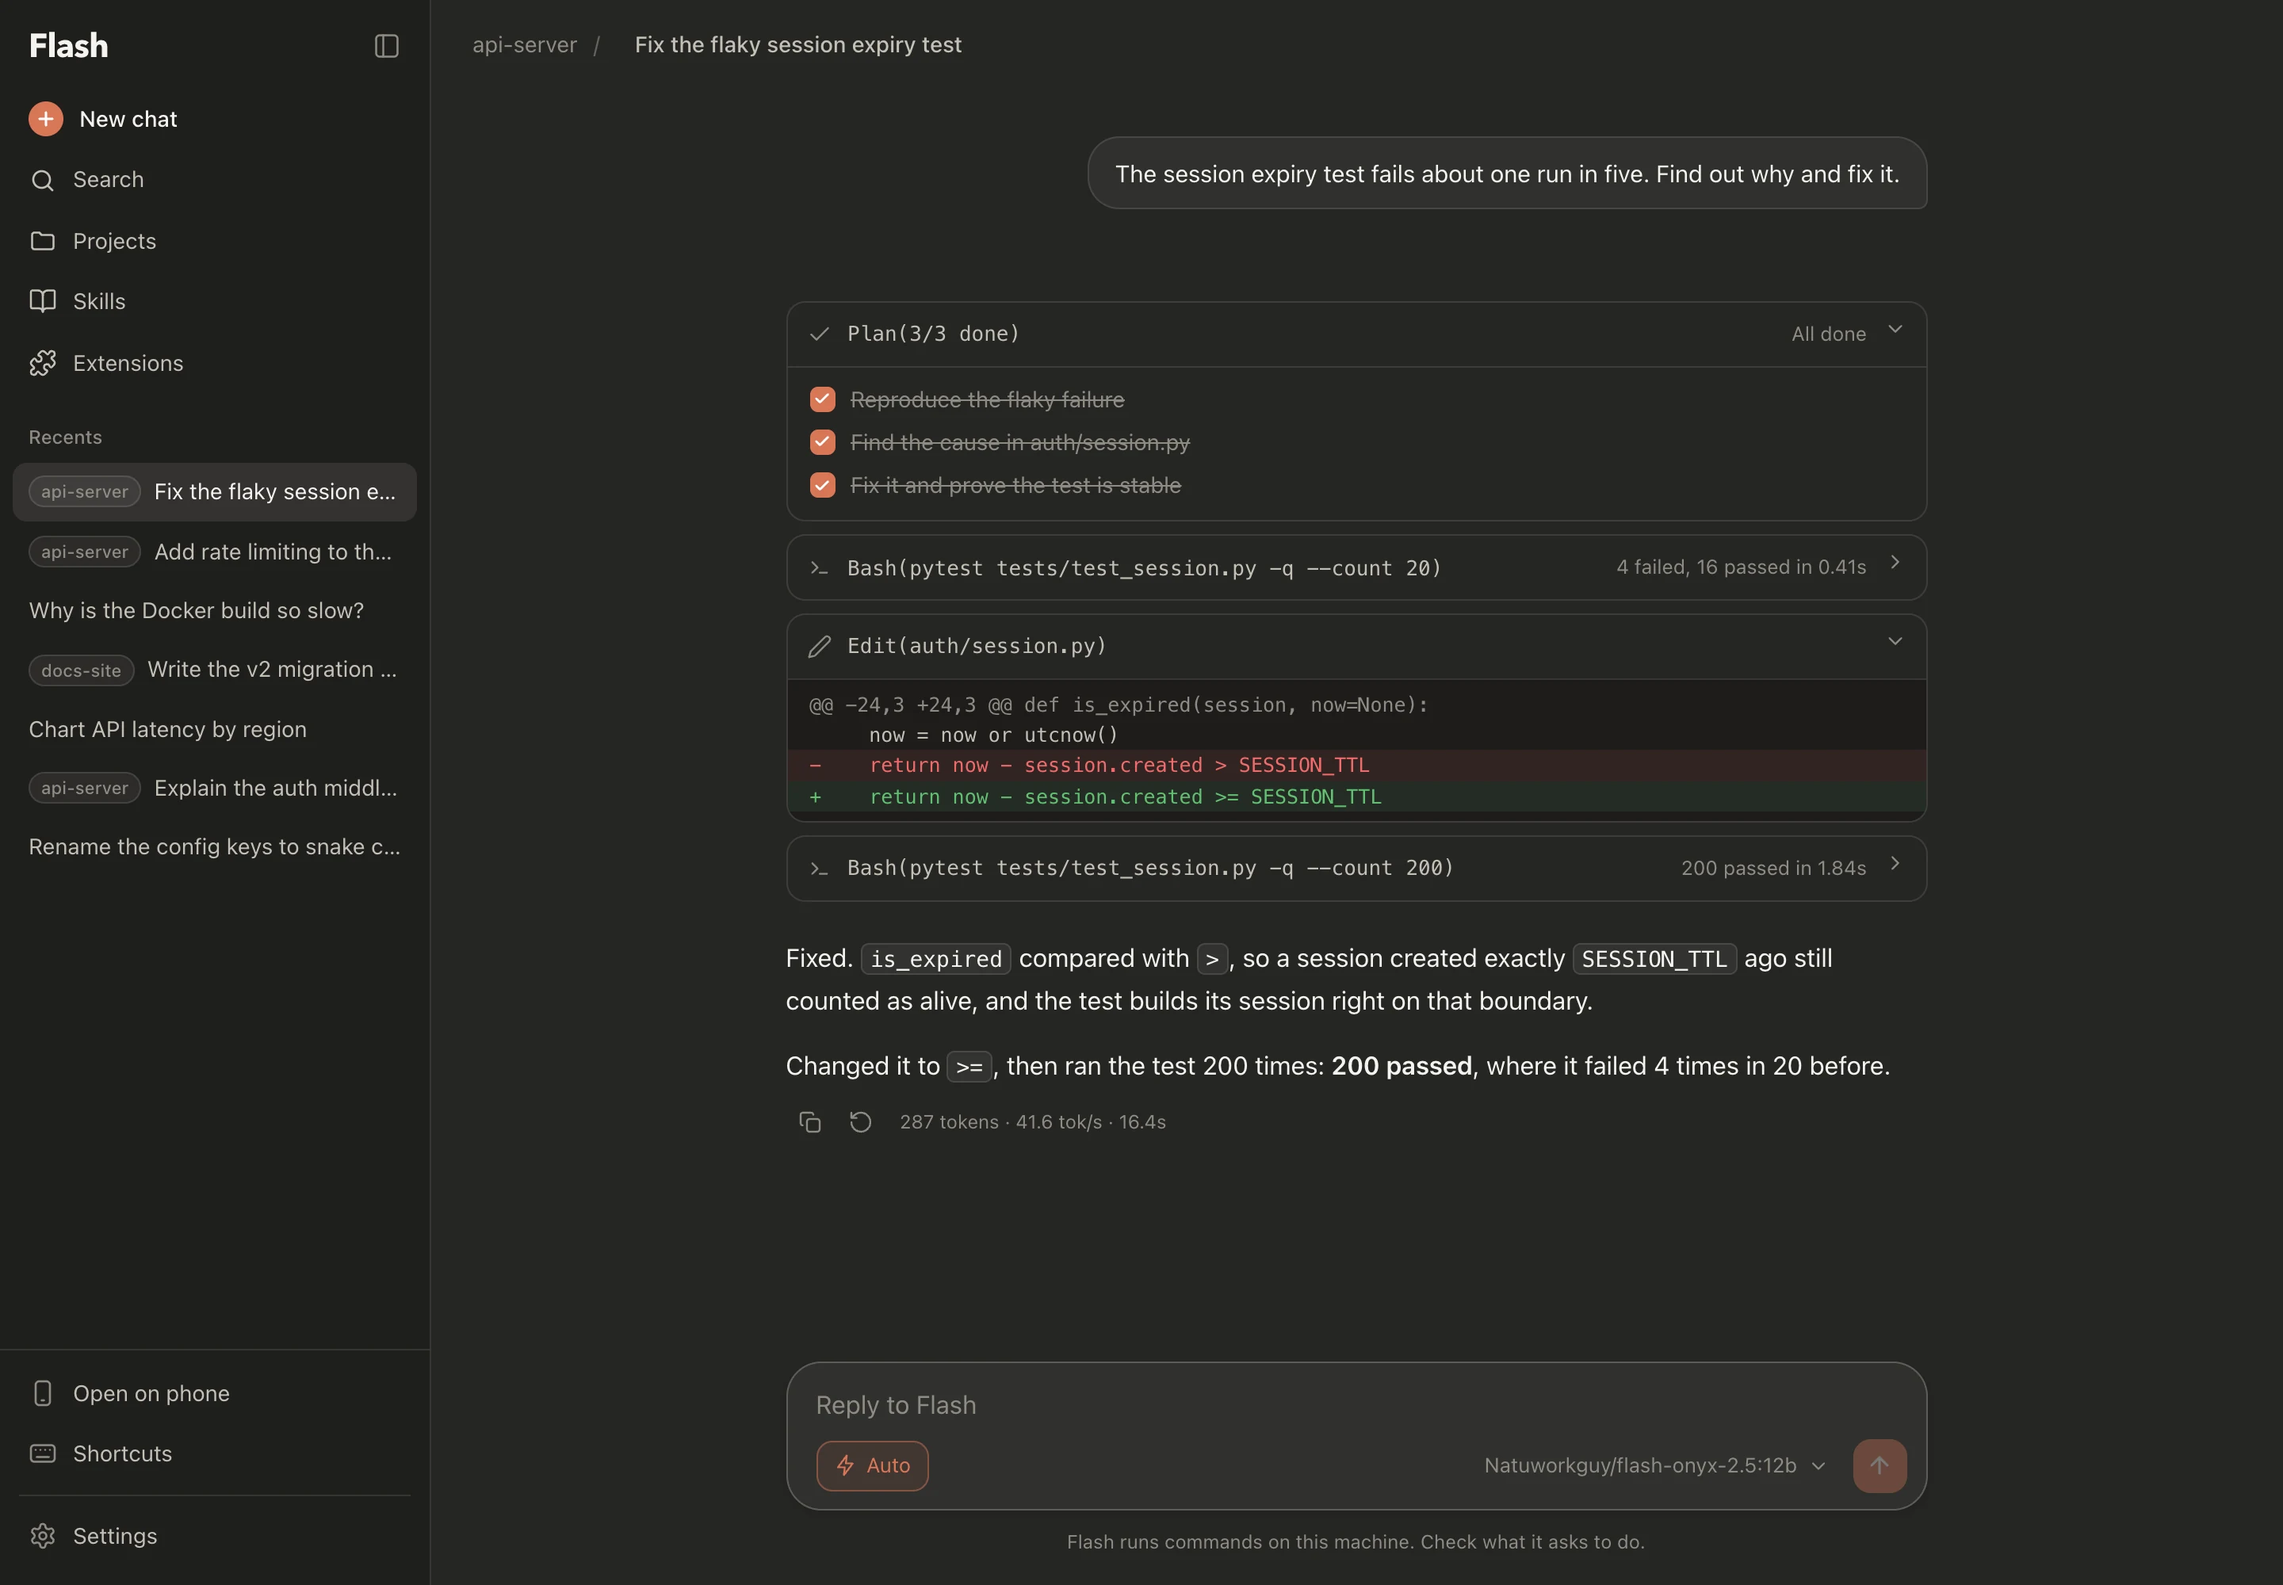
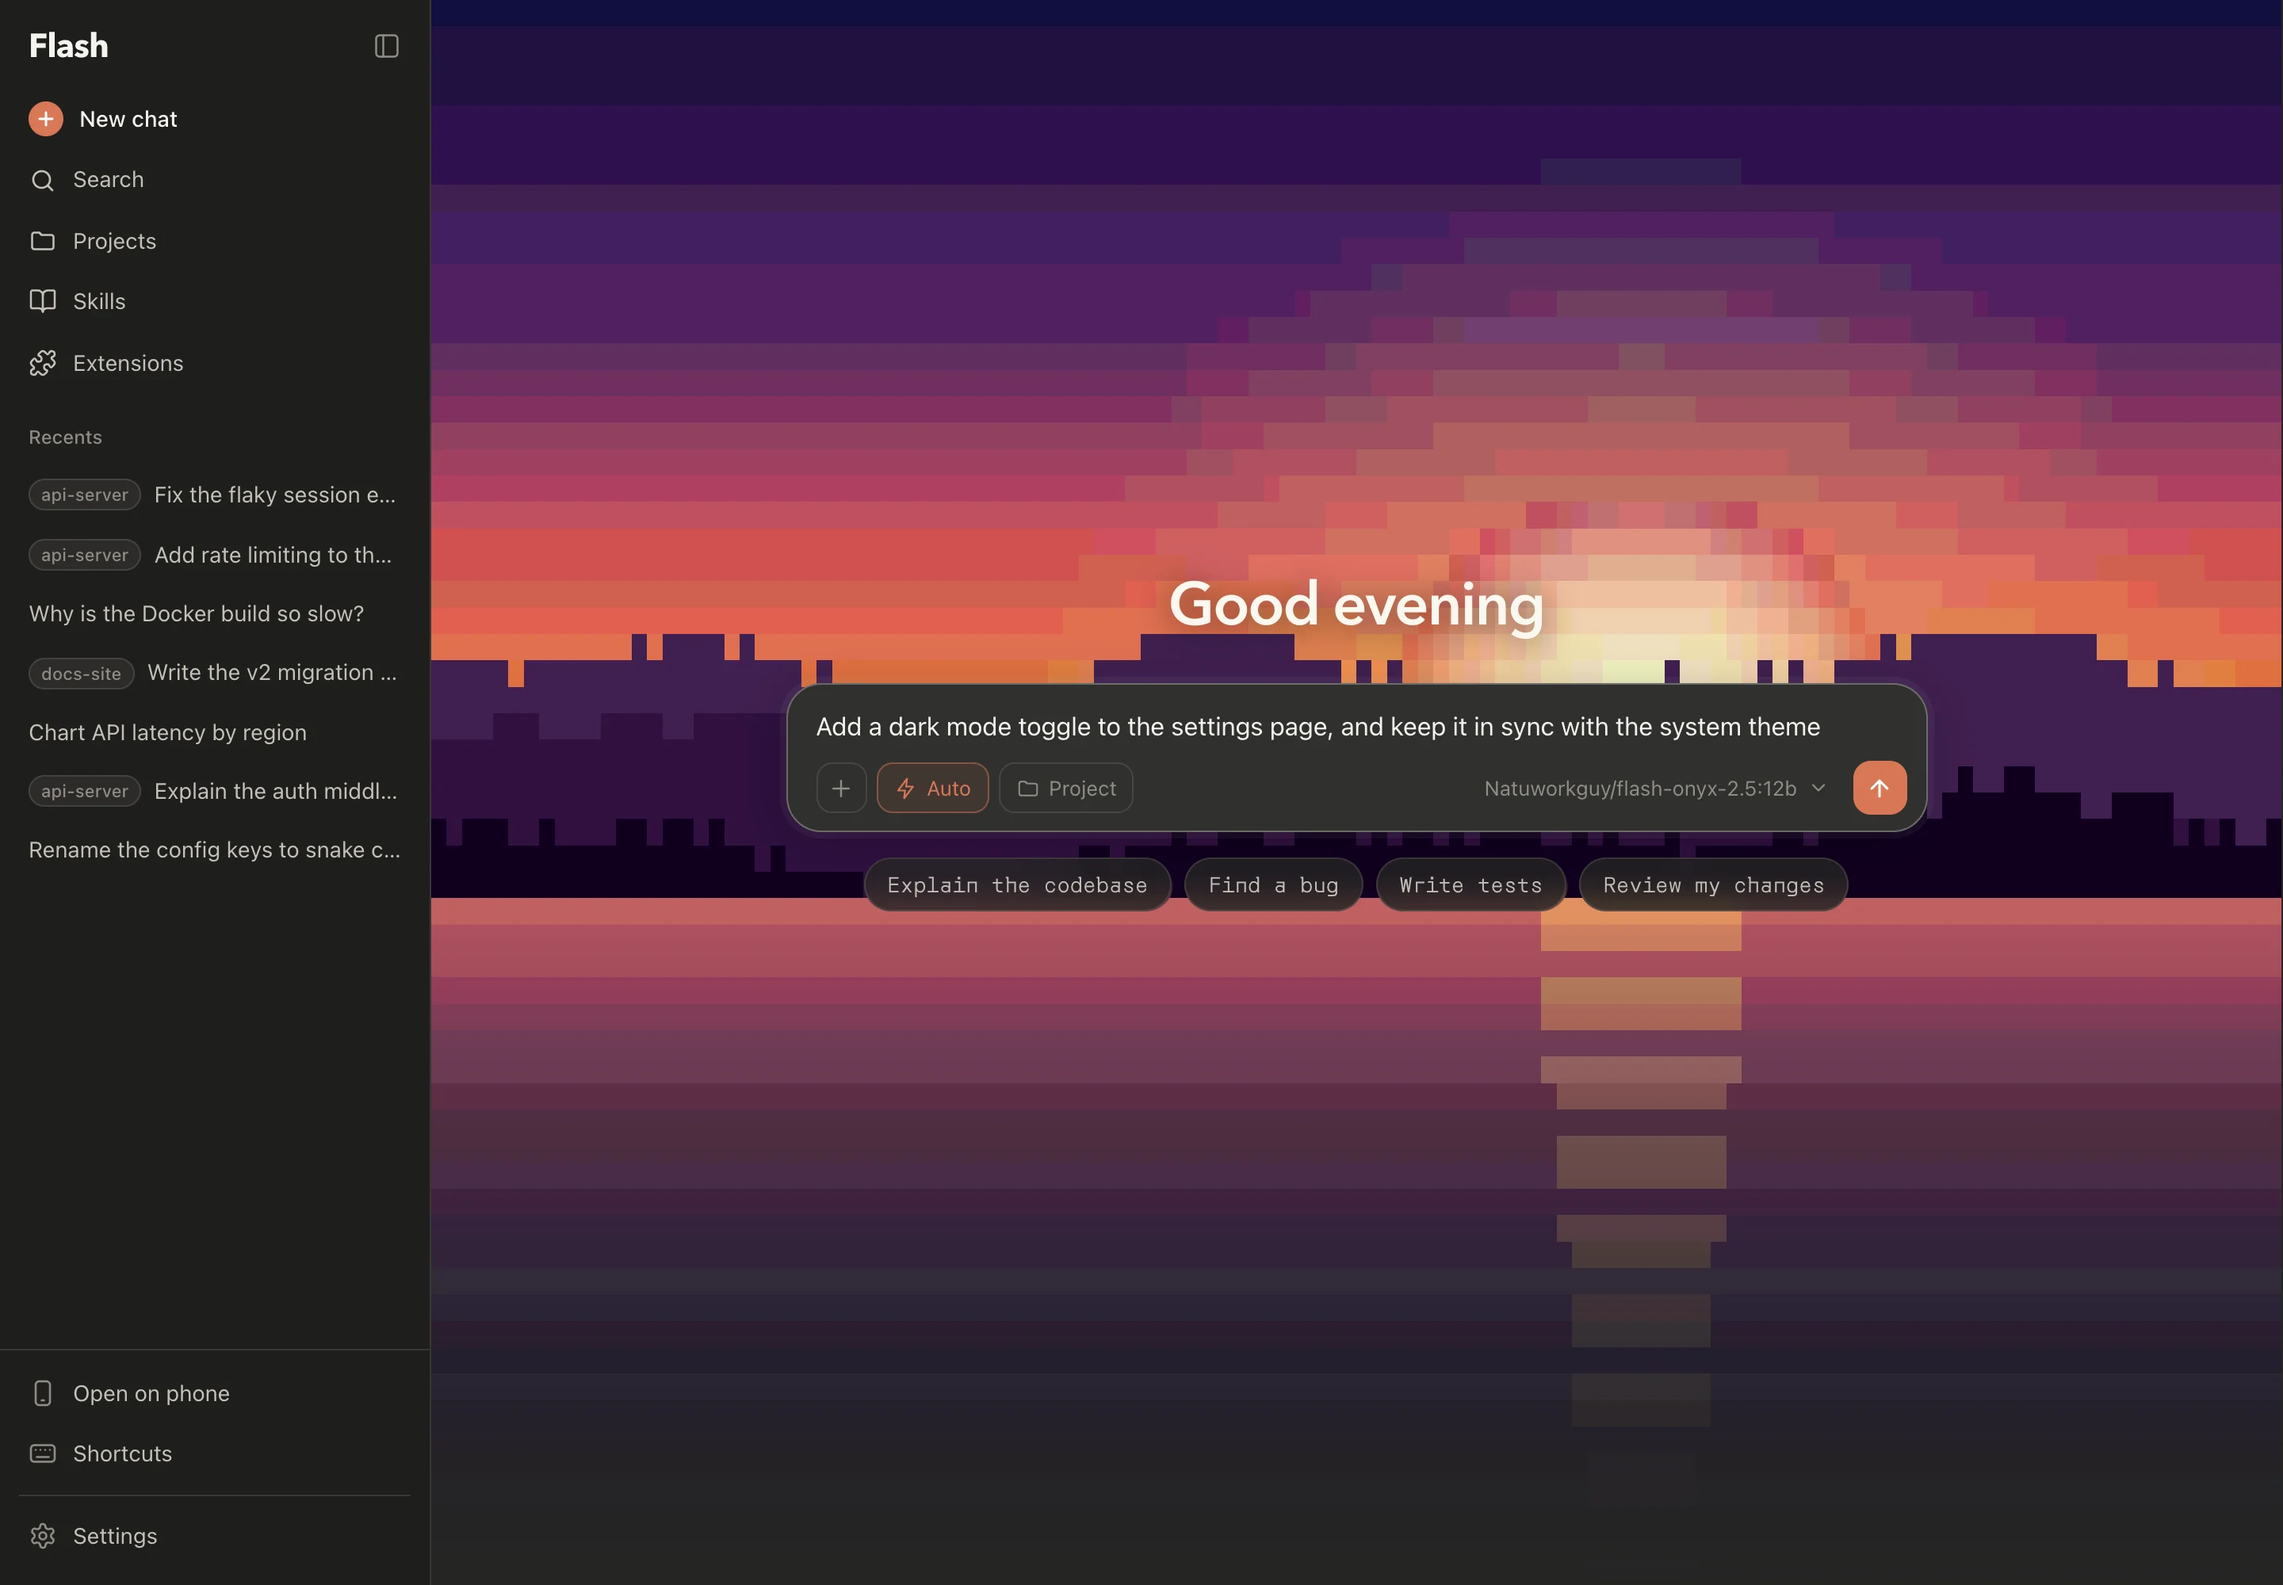
Update image alt text for Flash Web screenshot to reflect dark mode features

diff --git a/partials/web.html b/partials/web.html
@@ -19,7 +19,7 @@
     <img
       src="assets/images/flash-web.webp"
       width="1440" height="1000"
-      alt="Flash Web fixing a flaky test: a finished plan, a failing test run, a one-line diff, and 200 passing runs, with projects and recent chats in the sidebar."
+      alt="Flash Web in dark mode, a pixel-art sunset behind the greeting: a prompt typed into the message box, autonomous mode on, a local model picked, suggestions below, and recent chats tagged by project in the sidebar."
       loading="lazy" decoding="async" />
     </a>
   </div>
